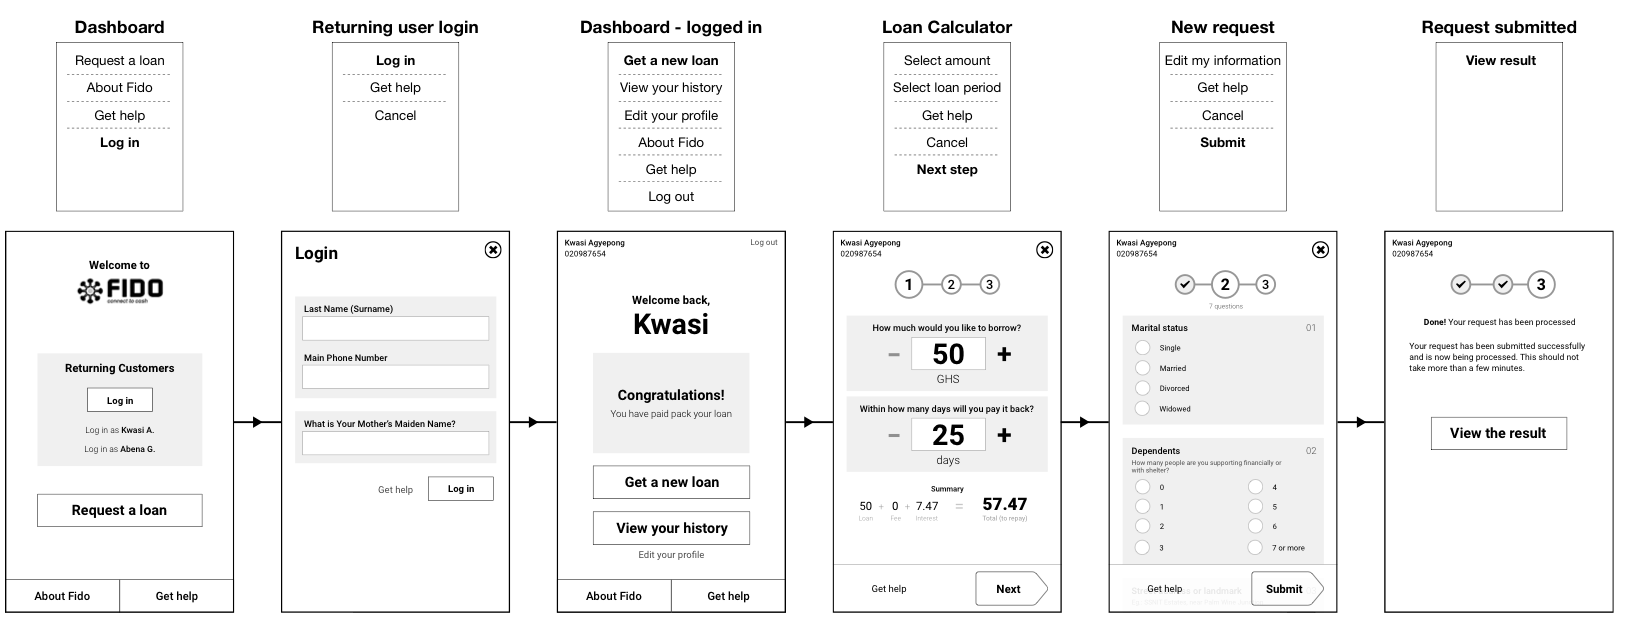
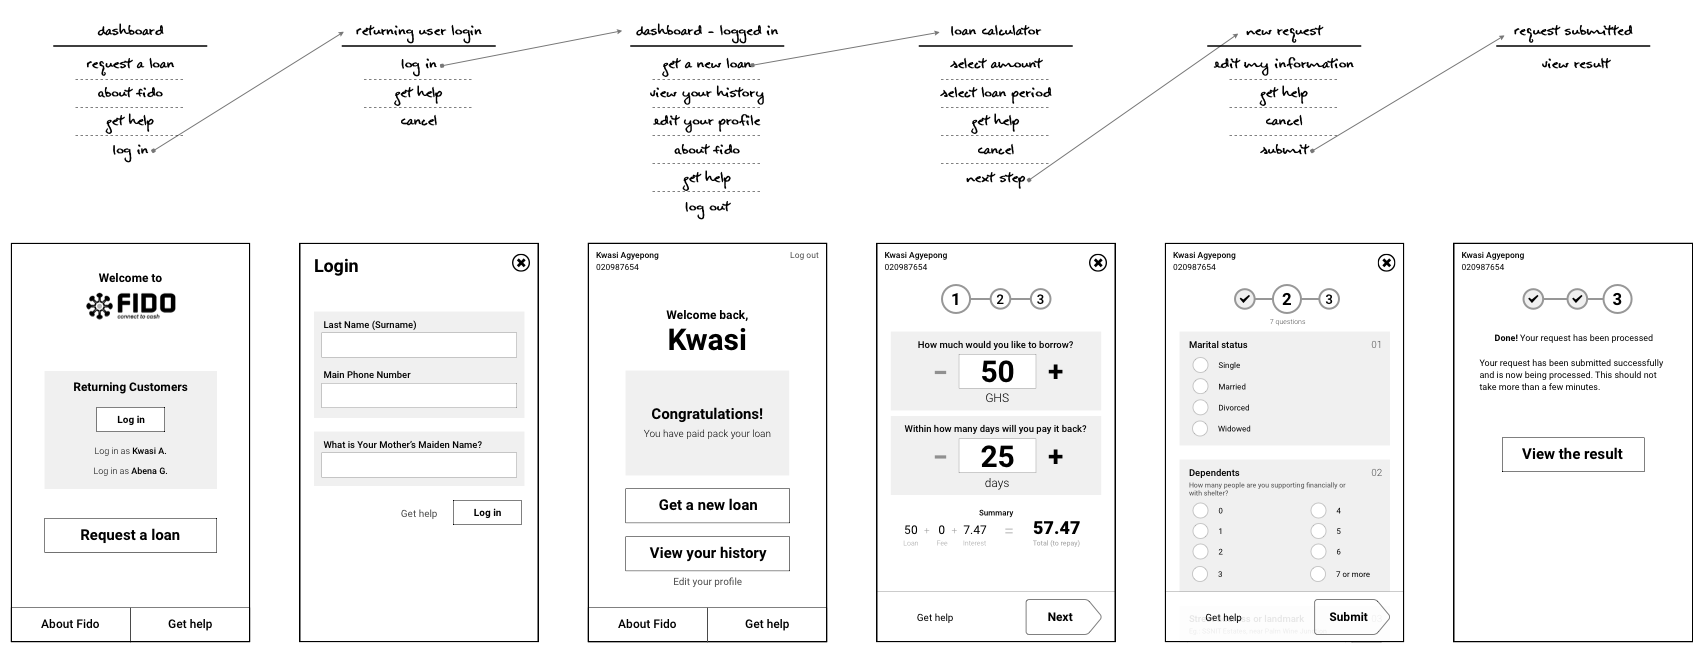
changes to ui-image

diff --git a/projects/vfc.html b/projects/vfc.html
@@ -166,14 +166,8 @@ masthead-bg: clear_placeholder.png
   <div class="info-archetype"></div>
 </div>
 
-<!--<div class="testimonial-quote">
-  <blockquote>&ldquo;I’ve heard of a ‘Professor in Engineering’, but I’ve never heard anyone say ‘Professor in Farming’. <strong>We don’t value it.</strong> &rdquo; </blockquote>
-  <p>- A smallholder farmer -</p>
-</div> -->
-
 <div class="section-intro new-section">
   <h2>Design Interventions</h2>
-  <!--<p>We designed a number of interventions to address the issues and opportunities that we observed around delivering information to farmers in a way they could understand.</p>-->
 </div>
 
 <div id="image5" class="main-image" style="background-image: url({{ site.imagepath }}phone-charm.jpeg)">
@@ -273,7 +267,3 @@ masthead-bg: clear_placeholder.png
 		</div>
   </div>
 </div>
-<!--
-<div class="section-intro new-section">
-  <p>In addition to addressing the needs of the farmers themselves, we also had to address the difficult challenge of how to distribute the product to rural communities all around Ghana. We helped to implement a Sales Agent and Ambassador model, which included specially-designed tools and training.</p>
-</div>-->

diff --git a/_sass/_layout.scss b/_sass/_layout.scss
@@ -1067,13 +1067,23 @@
 	.ui-image {
 		@extend %image-default;
 		height: 600px;
-		width: 1200px;
-		left: calc( (100% - 1200px) * 0.5 );
-		@include media-query($on-1100) {
+		width: 1100px;
+		left: calc( (100% - 1100px) * 0.5 );
+
+		&.fido-flow {
+			height: 420px;
+		}
+
+		@include media-query($on-1200) {
 			width: 100%;
 			height: 0;
 			padding-top: 50%;
 			left: auto;
+
+			&.fido-flow {
+				height: 0;
+				padding-top: 38%;
+			}
 		}
 
 		&.split-image {

diff --git a/projects/fido.html b/projects/fido.html
@@ -55,7 +55,7 @@ masthead-bg: fido-masthead-bg.png
   <h2>User Flows &amp; Wireframes</h2>
 </div>
 
-<div class="ui-image" style="background-image: url({{ site.imagepath }}fido-flow.png)">
+<div class="ui-image fido-flow" style="background-image: url({{ site.imagepath }}fido-flow.png)">
   <a data-caption="Returning user flow and wireframes" href="{{ site.imagepath }}fido-flow.png" data-fancybox="lightbox-{{ page.shortcode }}">
   </a>
 </div>
